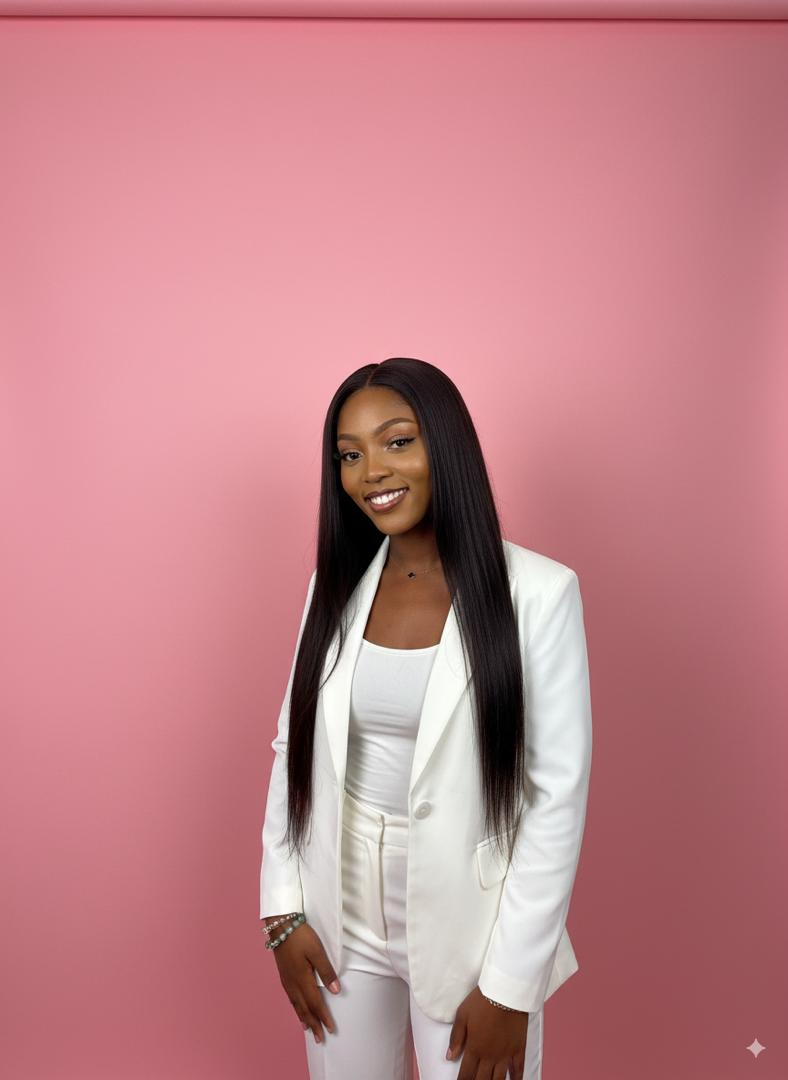
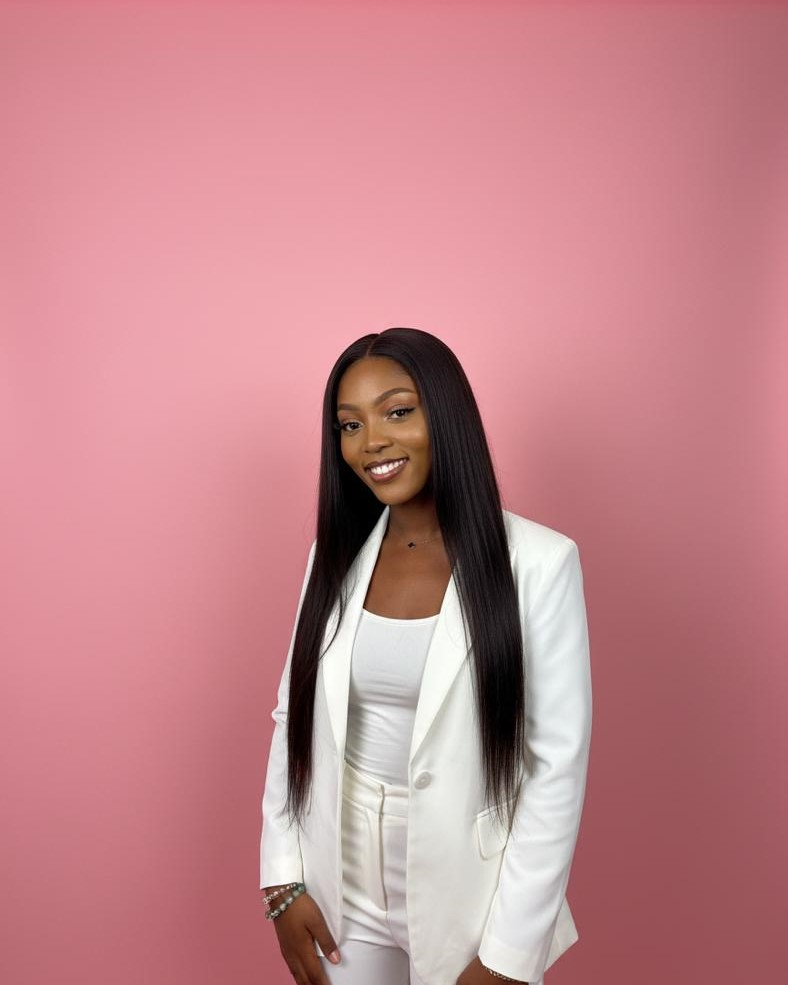
updated portfolio

diff --git a/index.html b/index.html
@@ -53,13 +53,13 @@
                     </div>
                     <div class="hero-visual">
                         <div class="image-layer main-image">
-                            <img src="creative.jpeg" alt="Amazing - Creative Portrait" class="hero-main-img">
+                            <img src="profile4.jpeg" alt="Amazing - Creative Portrait" class="hero-main-img">
                         </div>
                         <div class="image-layer layer-2">
                             <img src="profile2.jpeg" alt="Supporting image" class="hero-layer-img">
                         </div>
                         <div class="image-layer layer-3">
-                            <img src="profile3.jpeg" alt="Supporting image" class="hero-layer-img">
+                            <img src="creative.jpeg" alt="Supporting image" class="hero-layer-img">
                         </div>
                         <div class="floating-card card-1">
                             <span class="card-number">13K+</span>
@@ -324,7 +324,7 @@
                             <i class="fas fa-certificate"></i>
                         </div>
                         <h3>Marketing & Branding Certificate</h3>
-                        <p>Coursera</p>
+                        <p>British Council</p>
                         <div class="cert-hover-effect"></div>
                     </div>
                     <div class="cert-card">